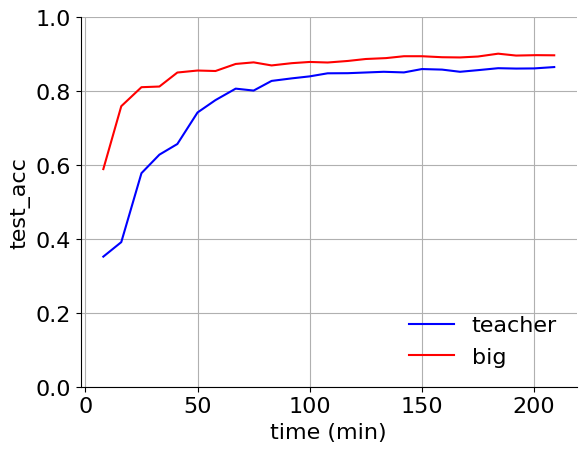
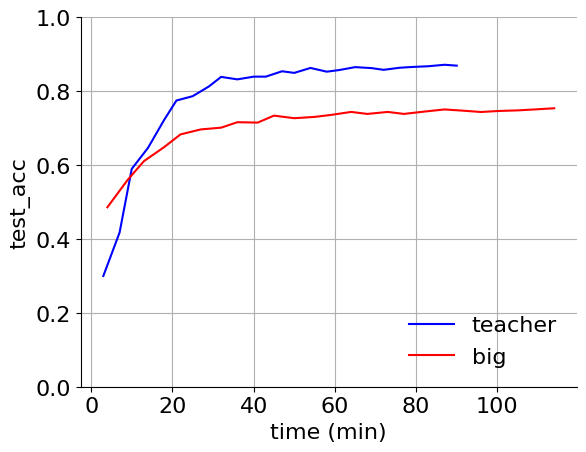
fix lr for big

diff --git a/plotting/plot4.py b/plotting/plot4.py
@@ -14,8 +14,8 @@ from logger import ML_Logger as LOG
 
 def plot6():
     metric = "train_acc"
-    folder1 = "TeacherInceptionCIFAR10_11_18_3a"
-    folder2 = "BigInceptionCIFAR10_11_18_3b"
+    folder1 = "TeacherInceptionCIFAR10_11_20_1a"
+    folder2 = "BigInceptionCIFAR10_11_20_1b"
     output = "plot8.png"
 
     teacher_metrics = LOG.load_metrics(
@@ -52,8 +52,8 @@ def plot6():
 
 def plot7():
     metric = "test_acc"
-    folder1 = "TeacherInceptionCIFAR10_11_18_3a"
-    folder2 = "BigInceptionCIFAR10_11_18_3b"
+    folder1 = "TeacherInceptionCIFAR10_11_20_1a"
+    folder2 = "BigInceptionCIFAR10_11_20_1b"
     output = "plot9.png"
 
     teacher_metrics = LOG.load_metrics(
